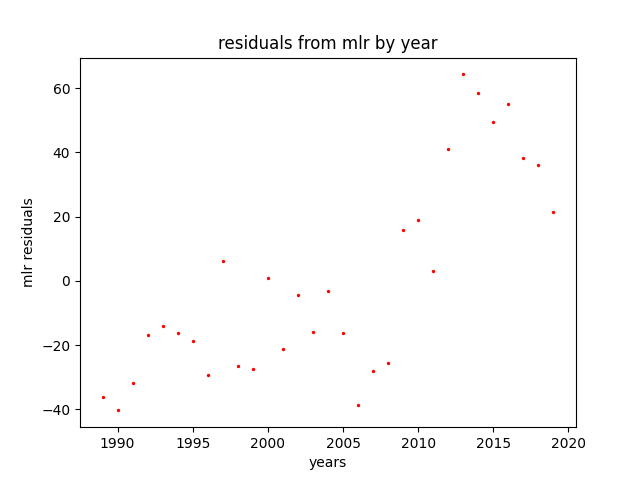
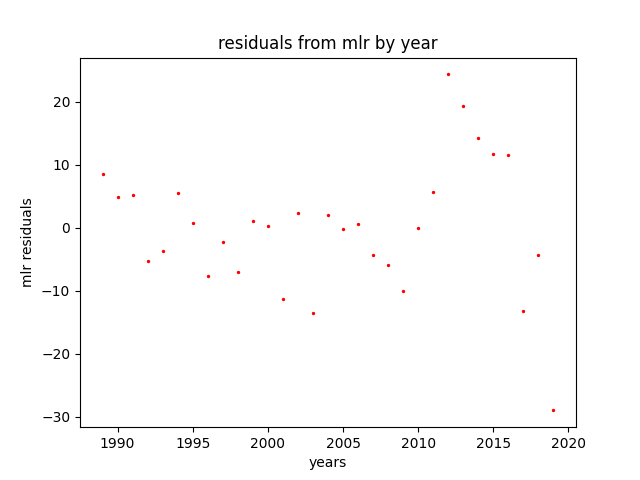
trying more predictors

diff --git a/project/main.py b/project/main.py
@@ -12,8 +12,8 @@ def main():
 
     print(f"\nCreating the Desgin matrix for the {number_obs} observations")
     ones = [1 for i in range(number_obs)]
-    design_matrix_full = pd.DataFrame(list(zip(ones, cei, sea_avg_max, sea_avg_min, sea_max_range)),
-                columns =['ones', 'cei', 'sea_avg_max', 'sea_avg_min', 'sea_max_range'])
+    design_matrix_full = pd.DataFrame(list(zip(ones, cei, sea_avg_max, sea_avg_min, sea_max_range, years, water_temp)),
+                columns =['ones', 'cei', 'sea_avg_max', 'sea_avg_min', 'sea_max_range', 'years', 'water_temp'])
     n_obs,n_preds = np.shape(design_matrix_full)
     print(design_matrix_full)
 
@@ -97,7 +97,7 @@ def main():
     # Note:
     # np.corrcoef(np.transpose(P))
 
-    pstar = 2
+    pstar = 3 # why are the z scores a lot lower for just 2 
     print(f'\nUsing {pstar} principle components')
     P = P.iloc[:,:pstar]
     print(P)
